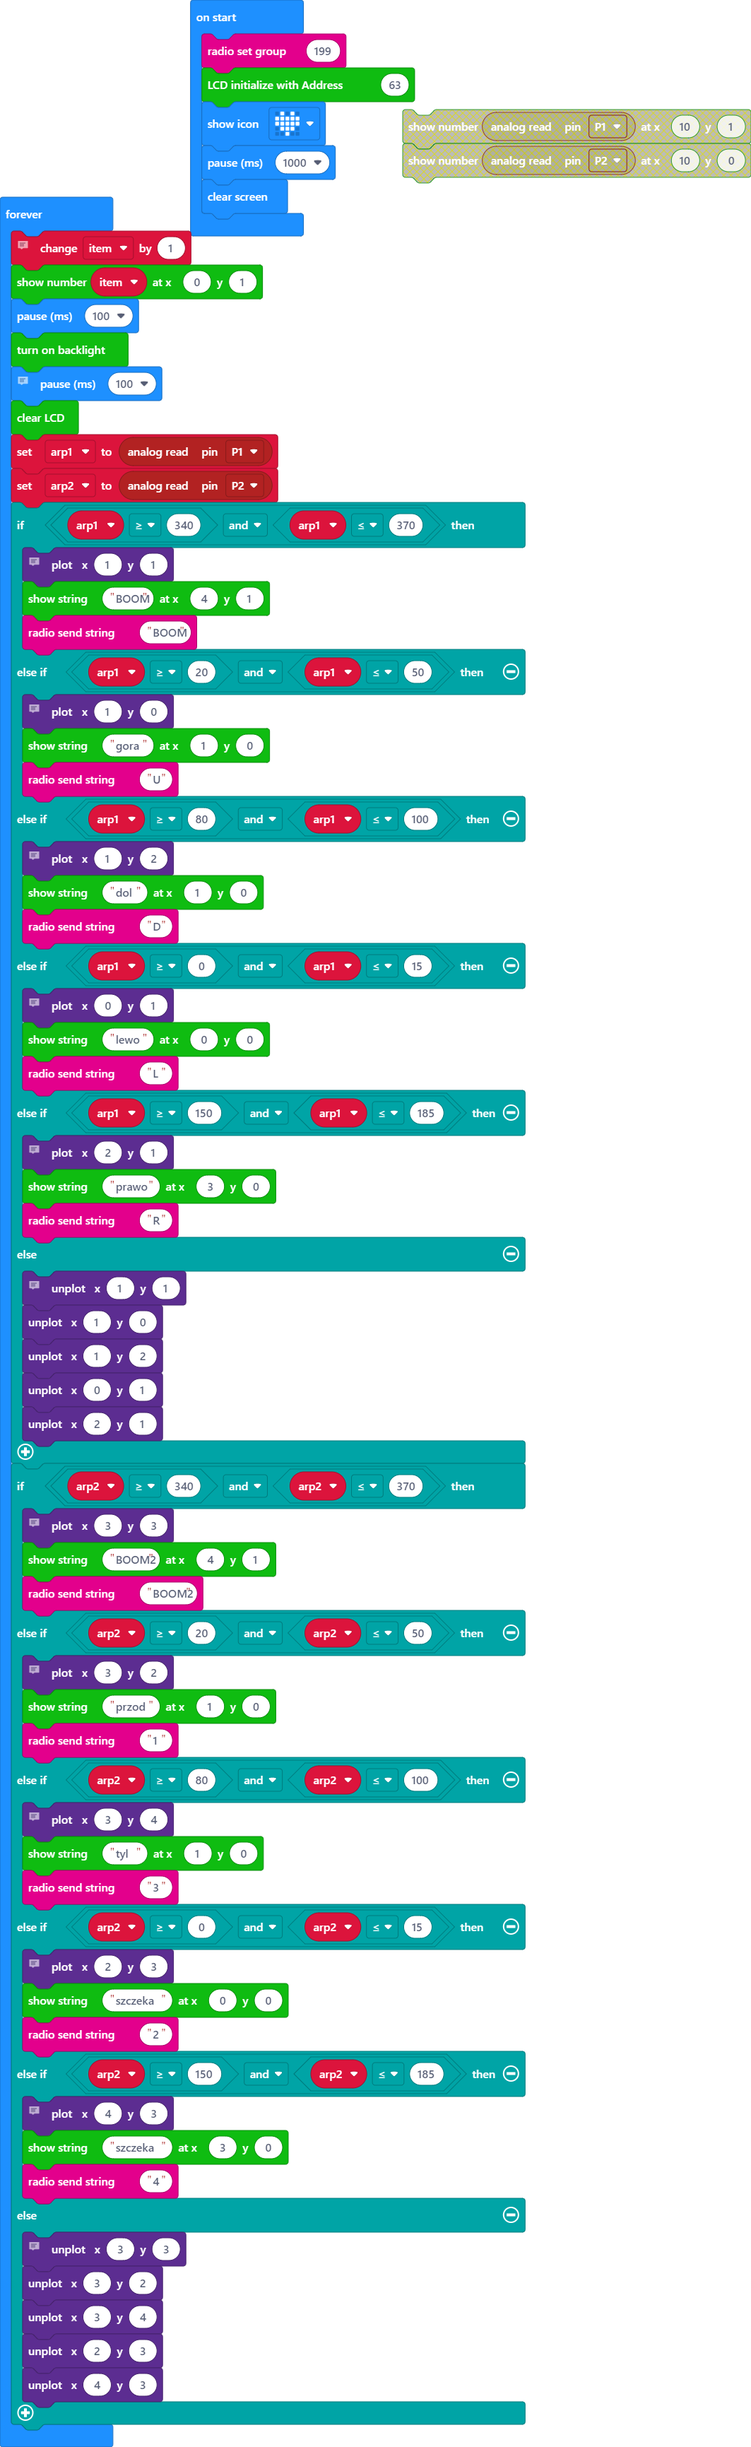
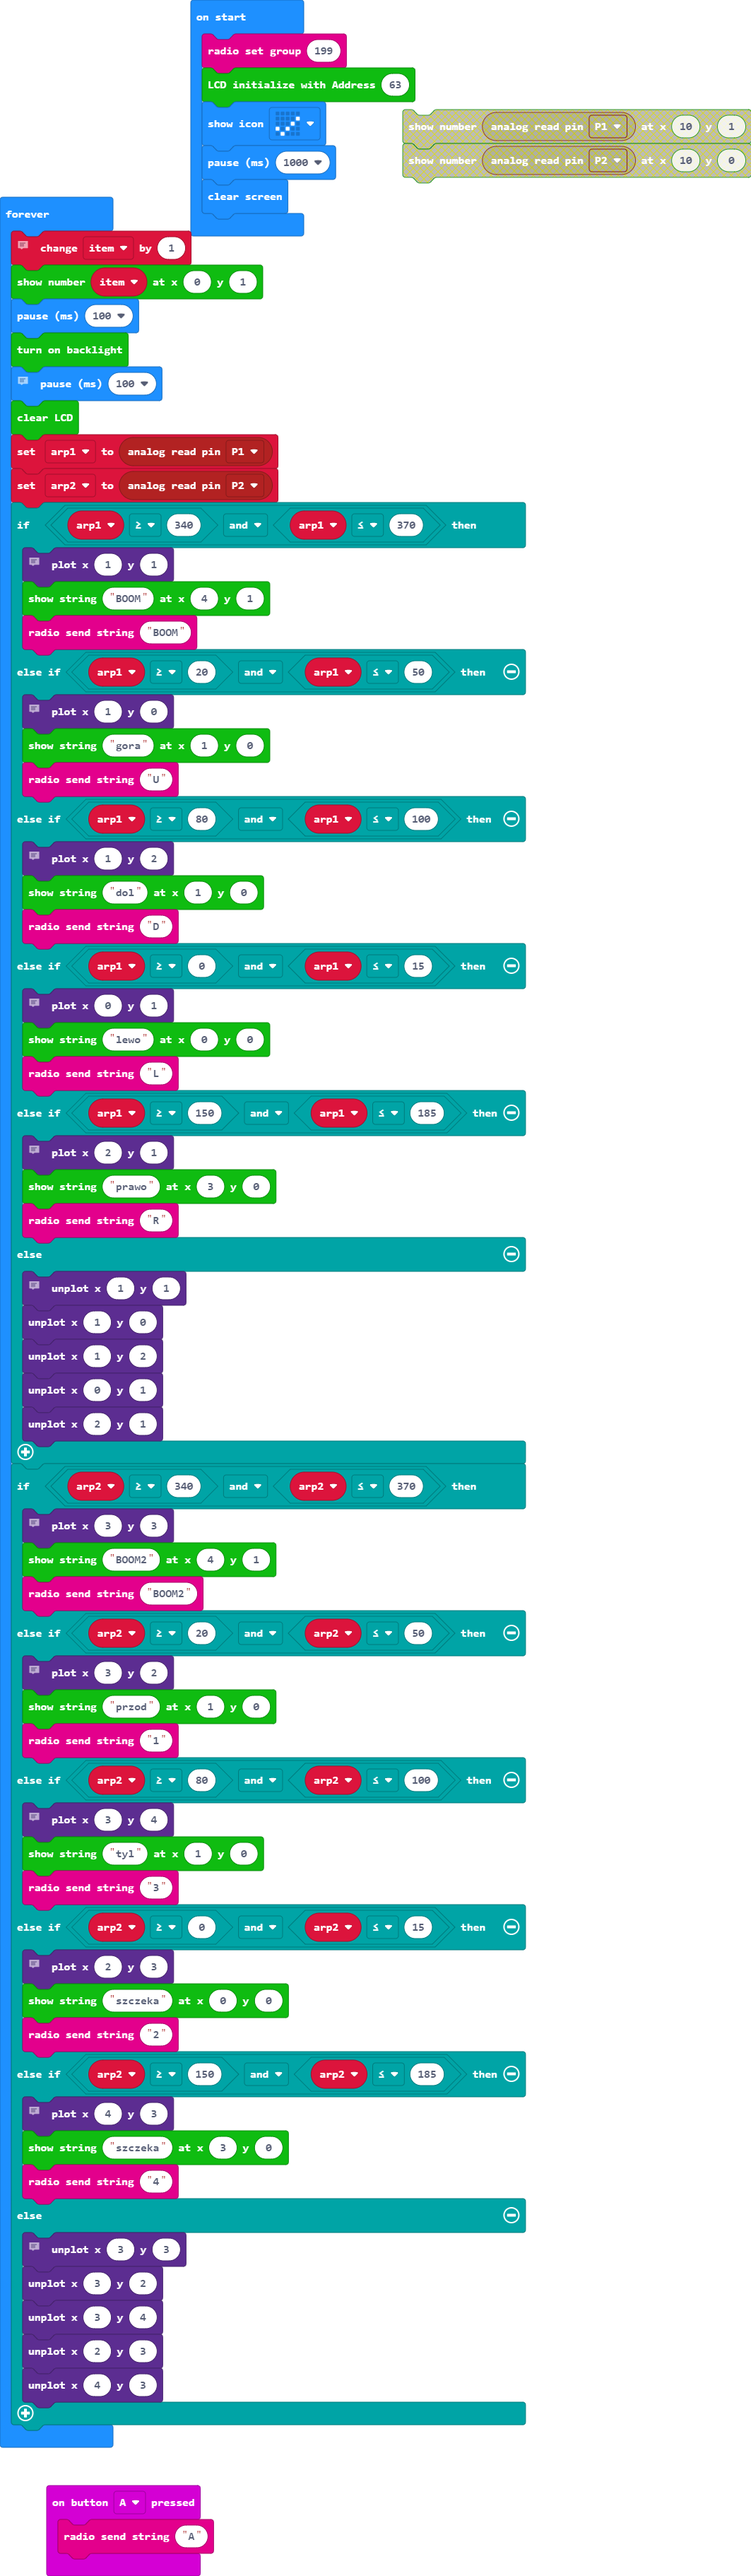
Update pxt.json, main.blocks, main.ts, main.py

diff --git a/main.ts b/main.ts
@@ -1,9 +1,12 @@
+input.onButtonPressed(Button.A, function () {
+    radio.sendString("A")
+})
 let arp2 = 0
 let arp1 = 0
 let item = 0
 radio.setGroup(199)
 I2C_LCD1602.LcdInit(63)
-basic.showIcon(IconNames.Heart)
+basic.showIcon(IconNames.Yes)
 basic.pause(1000)
 basic.clearScreen()
 basic.forever(function () {

diff --git a/main.py b/main.py
@@ -1,0 +1,86 @@
+arp2 = 0
+arp1 = 0
+item = 0
+radio.set_group(199)
+I2C_LCD1602.lcd_init(63)
+basic.show_icon(IconNames.HEART)
+basic.pause(1000)
+basic.clear_screen()
+
+def on_forever():
+    global item, arp1, arp2
+    # basic.showIcon(IconNames.Angry)
+    item += 1
+    I2C_LCD1602.show_number(item, 0, 1)
+    basic.pause(100)
+    I2C_LCD1602.backlight_on()
+    # basic.showIcon(IconNames.Cow)
+    basic.pause(100)
+    I2C_LCD1602.clear()
+    arp1 = pins.analog_read_pin(AnalogPin.P1)
+    arp2 = pins.analog_read_pin(AnalogPin.P2)
+    if arp1 >= 340 and arp1 <= 370:
+        # FIRE
+        led.plot(1, 1)
+        I2C_LCD1602.show_string("BOOM", 4, 1)
+        radio.send_string("BOOM")
+    elif arp1 >= 20 and arp1 <= 50:
+        # UP
+        led.plot(1, 0)
+        I2C_LCD1602.show_string("gora", 1, 0)
+        radio.send_string("U")
+    elif arp1 >= 80 and arp1 <= 100:
+        # DOWN
+        led.plot(1, 2)
+        I2C_LCD1602.show_string("dol", 1, 0)
+        radio.send_string("D")
+    elif arp1 >= 0 and arp1 <= 15:
+        # LEFT
+        led.plot(0, 1)
+        I2C_LCD1602.show_string("lewo", 0, 0)
+        radio.send_string("L")
+    elif arp1 >= 150 and arp1 <= 185:
+        # RIGHT
+        led.plot(2, 1)
+        I2C_LCD1602.show_string("prawo", 3, 0)
+        radio.send_string("R")
+    else:
+        # EMPTY
+        led.unplot(1, 1)
+        led.unplot(1, 0)
+        led.unplot(1, 2)
+        led.unplot(0, 1)
+        led.unplot(2, 1)
+    if arp2 >= 340 and arp2 <= 370:
+        # FIRE
+        led.plot(3, 3)
+        I2C_LCD1602.show_string("BOOM2", 4, 1)
+        radio.send_string("BOOM2")
+    elif arp2 >= 20 and arp2 <= 50:
+        # UP
+        led.plot(3, 2)
+        I2C_LCD1602.show_string("przod", 1, 0)
+        radio.send_string("1")
+    elif arp2 >= 80 and arp2 <= 100:
+        # DOWN
+        led.plot(3, 4)
+        I2C_LCD1602.show_string("tyl", 1, 0)
+        radio.send_string("3")
+    elif arp2 >= 0 and arp2 <= 15:
+        # LEFT
+        led.plot(2, 3)
+        I2C_LCD1602.show_string("szczeka", 0, 0)
+        radio.send_string("2")
+    elif arp2 >= 150 and arp2 <= 185:
+        # RIGHT
+        led.plot(4, 3)
+        I2C_LCD1602.show_string("szczeka", 3, 0)
+        radio.send_string("4")
+    else:
+        # EMPTY
+        led.unplot(3, 3)
+        led.unplot(3, 2)
+        led.unplot(3, 4)
+        led.unplot(2, 3)
+        led.unplot(4, 3)
+basic.forever(on_forever)
